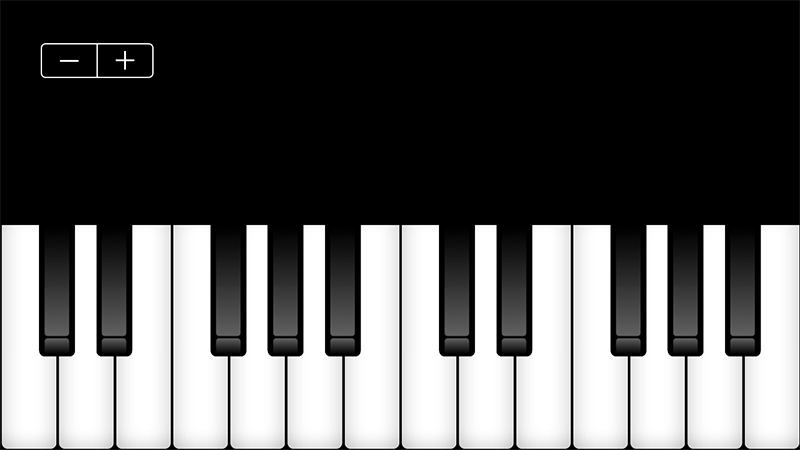
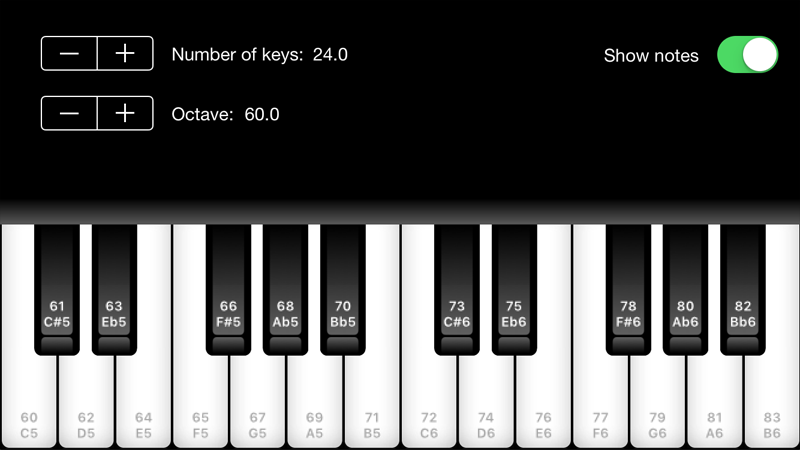
Added notes and numbers

diff --git a/Source/GLNPianoView.swift b/Source/GLNPianoView.swift
@@ -6,7 +6,6 @@
 //  Copyright © 2016 Gary Newby. All rights reserved.
 //
 
-import Foundation
 import UIKit
 import QuartzCore
 
@@ -18,49 +17,42 @@ public protocol GLNPianoViewDelegate: class  {
 @IBDesignable public class GLNPianoView : UIView {
     
     @IBInspectable var totalNumKeys:Int = 24
-    
-    static let minNumberOfKeys = 12
-    static let maxNumberOfKeys = 61
-    
-    var keyDown = NSMutableArray(capacity:maxNumberOfKeys)
-    var keyRects = NSMutableArray(capacity:maxNumberOfKeys)
-    var keyLayers = NSMutableArray(capacity:maxNumberOfKeys)
-    var currentTouches = NSMutableSet(capacity:maxNumberOfKeys)
-    var whiteDoImg:UIImage?
-    var whiteUpImg:UIImage?
-    var blackDoImg:UIImage?
-    var blackUpImg:UIImage?
-    var blackHeight:CGFloat = 0
-    var blackWidth:CGFloat = 0
-    var lastWidth:CGFloat = 0
-    var keyCornerRadius:CGFloat = 0
-    var whiteKeyCount = 0
-    
+    @IBInspectable var showNotes:Bool = true
     public weak var delegate:GLNPianoViewDelegate?
-    
+    public var octave: UInt8 = 60
+    private static let minNumberOfKeys = 12
+    private static let maxNumberOfKeys = 61
+    private var keyDown = NSMutableArray(capacity:maxNumberOfKeys)
+    private var keyRects = NSMutableArray(capacity:maxNumberOfKeys)
+    private var keyLayers = NSMutableArray(capacity:maxNumberOfKeys)
+    private var currentTouches = NSMutableSet(capacity:maxNumberOfKeys)
+    private var whiteDoImg:UIImage?
+    private var whiteUpImg:UIImage?
+    private var blackDoImg:UIImage?
+    private var blackUpImg:UIImage?
+    private var blackHeight:CGFloat = 0
+    private var blackWidth:CGFloat = 0
+    private var lastWidth:CGFloat = 0
+    private var whiteKeyCount = 0
+    var keyCornerRadius:CGFloat = 0
     
     override public init(frame: CGRect) {
         super.init(frame: frame)
-        self.commonInit()
+        commonInit()
     }
     
     required public init?(coder aDecoder: NSCoder) {
         super.init(coder: aDecoder)
-        self.commonInit()
+        commonInit()
     }
     
     override public func prepareForInterfaceBuilder() {
         totalNumKeys = clamp(totalNumKeys, min: GLNPianoView.minNumberOfKeys, max: GLNPianoView.maxNumberOfKeys)
     }
     
-    func clamp(_ value:Int, min:Int,  max:Int) -> Int {
-        let r = value < min ? min : value;
-        return r > max ? max : r;
-    }
-    
     func commonInit() {
         blackHeight = 0.585
-        blackWidth = 0.63
+        blackWidth = 0.80
         keyCornerRadius = blackWidth * 8.0
         whiteKeyCount = 0
         lastWidth = 0
@@ -90,14 +82,13 @@ public protocol GLNPianoViewDelegate: class  {
     
     override public func layoutSubviews() {
         super.layoutSubviews()
-        
         commonInit()
         
         let rect:CGRect = bounds
         let whiteKeyHeight = rect.size.height
         let whiteKeyWidth  = whiteKeyWidthForRect(rect)
-        let blackKeyHeight = rect.size.height * self.blackHeight
-        let blackKeyWidth  = whiteKeyWidth * self.blackWidth
+        let blackKeyHeight = rect.size.height * blackHeight
+        let blackKeyWidth  = whiteKeyWidth * blackWidth
         let blackKeyOffset = blackKeyWidth / 2.0
         
         blackUpImg = keyImage(CGSize(width: blackKeyWidth, height: blackKeyHeight), blackKey: true, keyDown:false)
@@ -105,9 +96,8 @@ public protocol GLNPianoViewDelegate: class  {
         whiteUpImg = keyImage(CGSize(width: 21, height: 21), blackKey: false, keyDown:false)
         whiteDoImg = keyImage(CGSize(width: 21, height: 21), blackKey: false, keyDown:true)
         
-        var x:CGFloat = 0
-        
         // White Keys
+        var x:CGFloat = 0
         for i in 0 ..< totalNumKeys {
             if (isWhiteKey(i)) {
                 let newX = (x + 0.5)
@@ -116,14 +106,16 @@ public protocol GLNPianoViewDelegate: class  {
                 let keyLayer = createCALayer(UIColor.white, aRect:keyRect, white:true)
                 keyLayers[i] = keyLayer;
                 layer.addSublayer(keyLayer)
+                if (showNotes) {
+                    layer.addSublayer(noteLayer(midiNumber: i + Int(octave), keyRect: keyRect, textColour: UIColor.lightGray))
+                }
                 x += whiteKeyWidth
             }
         }
         
-        x = 0.0
-        
         // Black Keys
-        for i in 0 ..< self.totalNumKeys {
+        x = 0.0
+        for i in 0 ..< totalNumKeys {
             if (isWhiteKey(i)) {
                 x += whiteKeyWidth
             } else {
@@ -131,6 +123,9 @@ public protocol GLNPianoViewDelegate: class  {
                 let keyLayer = createCALayer(UIColor.black, aRect:keyRect, white:false)
                 keyLayers[i] = keyLayer;
                 layer.addSublayer(keyLayer)
+                if (showNotes) {
+                    layer.addSublayer(noteLayer(midiNumber: i + Int(octave), keyRect: keyRect, textColour: UIColor.white))
+                }
             }
         }
     }
@@ -145,14 +140,10 @@ public protocol GLNPianoViewDelegate: class  {
     }
     
     func createCALayer(_ color:UIColor, aRect:CGRect, white:Bool) -> CALayer {
-        let rect = CGRect(x: aRect.minX, y: aRect.minY - (self.keyCornerRadius*2.0), width: aRect.width, height: aRect.height + (self.keyCornerRadius*2.0))
+        let rect = CGRect(x: aRect.minX, y: aRect.minY - (keyCornerRadius*2.0), width: aRect.width, height: aRect.height + (keyCornerRadius*2.0))
         let layer  = CALayer()
-        
-        if let blackUp = blackUpImg?.cgImage,
-            let whiteUp = whiteUpImg?.cgImage
-        {
+        if let blackUp = blackUpImg?.cgImage, let whiteUp = whiteUpImg?.cgImage {
             var x:CGFloat = 0.0
-            
             layer.contentsCenter = CGRect(x: 0.5, y: 0.5, width: 0.02, height: 0.02)
             if (white) {
                 x = 1.0
@@ -161,10 +152,10 @@ public protocol GLNPianoViewDelegate: class  {
             layer.frame = rect.insetBy(dx: x, dy: 0)
             layer.isOpaque = true
             layer.backgroundColor = color.cgColor
-            layer.cornerRadius = self.keyCornerRadius
+            layer.cornerRadius = keyCornerRadius
             
             // Disable implict animations for specified keys
-            layer.actions = ["onOrderIn":NSNull(), "onOrderOut":NSNull(), "self.sublayers":NSNull(), "contents":NSNull(), "bounds":NSNull(), "position":NSNull()]
+            layer.actions = ["onOrderIn":NSNull(), "onOrderOut":NSNull(), "sublayers":NSNull(), "contents":NSNull(), "bounds":NSNull(), "position":NSNull()]
             if (!white) {
                 // Black
                 layer.contents       = blackUp
@@ -201,21 +192,14 @@ public protocol GLNPianoViewDelegate: class  {
         }
     }
     
-    func isWhiteKey(_ key:Int) -> Bool {
-        let k = key % 12
-        return (k == 0 || k == 2 || k == 4 || k == 5 || k == 7 || k == 9 || k == 11)
-    }
-    
-    //Mark - Update
-    
     func updateKeyRects() {
         if (lastWidth == bounds.size.width) {
             return
         }
         lastWidth = bounds.size.width
         
-        let rect           = self.frame
-        let whiteKeyHeight = self.bounds.size.height
+        let rect           = frame
+        let whiteKeyHeight = bounds.size.height
         let blackKeyHeight = whiteKeyHeight * blackHeight
         let whiteKeyWidth  = whiteKeyWidthForRect(rect)
         let blackKeyWidth  = whiteKeyWidth * blackWidth
@@ -239,7 +223,6 @@ public protocol GLNPianoViewDelegate: class  {
         let touches = currentTouches.allObjects as NSArray
         let count = touches.count
         let currentKeyState = NSMutableArray()
-        
         for i in 0 ..< totalNumKeys {
             currentKeyState[i] = NSNumber(value: false as Bool)
         }
@@ -285,8 +268,6 @@ public protocol GLNPianoViewDelegate: class  {
         return keyNum
     }
     
-    //Mark - Touch Handling Code
-    
     override public func touchesBegan(_ touches: Set<UITouch>, with event: UIEvent?) {
         for touch in touches {
             currentTouches.add(touch)
@@ -305,79 +286,14 @@ public protocol GLNPianoViewDelegate: class  {
         updateKeyStates()
     }
     
-    //MARK: - Image generation
+    func toggleShowNotes() {
+        showNotes = !showNotes
+        setNeedsLayout()
+    }
     
-    func keyImage(_ aSize:CGSize, blackKey:Bool, keyDown:(Bool)) -> UIImage {
-        let scale = UIScreen.main.scale
-        var size:CGSize = aSize
-        size.width *= scale
-        size.height *= scale
-        UIGraphicsBeginImageContext(size)
-        
-        if let context = UIGraphicsGetCurrentContext() {
-            let colorSpace = CGColorSpaceCreateDeviceRGB()
-            
-            if (blackKey) {
-                let fillColor = UIColor(red: 0.379, green: 0.379, blue: 0.379, alpha: 1)
-                let strokeColor = UIColor(red: 0, green: 0, blue: 0, alpha: 0.951)
-                let gradient1Colors = [strokeColor.cgColor, fillColor.cgColor]
-                let gradient1Locations:[CGFloat] = [0.11, 1.0]
-                
-                if let gradient1 = CGGradient(colorsSpace: colorSpace, colors: gradient1Colors as CFArray, locations: gradient1Locations) {
-                    let frame = CGRect(x: 0, y: 0, width: size.width, height: size.height)
-                    let rectanglePath = UIBezierPath(rect:CGRect(x: frame.minX, y: frame.minY, width: size.width, height: size.height))
-                    strokeColor.setFill()
-                    rectanglePath.fill()
-                    
-                    let border = size.width*0.15
-                    let width = size.width*0.7
-                    var topRectHeight = size.height*0.86
-                    var bottomRectOffset = size.height*0.875
-                    let bottomRectHeight = size.height*0.125
-                    if (keyDown) {
-                        topRectHeight = size.height*0.91
-                        bottomRectOffset = size.height*0.925
-                    }
-                    
-                    let roundedRectangleRect = CGRect(x: frame.minX +  border, y: frame.minY, width: width, height: topRectHeight)
-                    let roundedRectanglePath = UIBezierPath(roundedRect:roundedRectangleRect, cornerRadius: self.keyCornerRadius)
-                    context.saveGState()
-                    roundedRectanglePath.addClip()
-                    context.drawLinearGradient(gradient1, start: CGPoint(x: roundedRectangleRect.midX, y: roundedRectangleRect.minY), end: CGPoint(x: roundedRectangleRect.midX, y: roundedRectangleRect.maxY), options: [])
-                    context.restoreGState()
-                    
-                    let roundedRectangle2Rect = CGRect(x: frame.minX +  border, y: frame.minY + bottomRectOffset, width: width, height: bottomRectHeight)
-                    let roundedRectangle2Path = UIBezierPath(roundedRect: roundedRectangle2Rect, cornerRadius: self.keyCornerRadius)
-                    context.saveGState()
-                    roundedRectangle2Path.addClip()
-                    context.drawLinearGradient(gradient1, start: CGPoint(x: roundedRectangle2Rect.midX, y: roundedRectangle2Rect.maxY), end: CGPoint(x: roundedRectangle2Rect.midX, y: roundedRectangle2Rect.minY), options: [])
-                }
-                
-            } else {
-                var fillColor = UIColor(red:0.1, green: 0.1, blue: 0.1, alpha: 0.20)
-                var strokeColor = UIColor(red: 0.9, green: 0.9, blue: 0.9, alpha: 0.0)
-                
-                if (keyDown) {
-                    fillColor = UIColor(red: 0.1, green: 0.1, blue: 0.1, alpha: 0.50)
-                    strokeColor = UIColor(red: 0.9, green: 0.9, blue: 0.9, alpha: 0.0)
-                }
-                
-                let gradient1Colors = [strokeColor.cgColor, fillColor.cgColor]
-                let gradient1Locations:[CGFloat] = [0.1, 1.0]
-                if let gradient1 = CGGradient(colorsSpace: colorSpace, colors: gradient1Colors as CFArray, locations: gradient1Locations) {
-                    let rectanglePath = UIBezierPath(rect:CGRect(x: 0, y: 0, width: size.width, height: size.height))
-                    context.saveGState()
-                    rectanglePath.addClip()
-                    context.drawRadialGradient(gradient1, startCenter: CGPoint(x: size.width/2.0, y: size.height/2.0), startRadius: size.height * 0.01, endCenter: CGPoint(x: size.width/2.0, y: size.height/2.0), endRadius: size.height * 0.6, options: [.drawsBeforeStartLocation, .drawsAfterEndLocation])
-                }
-            }
-            context.restoreGState()
-        }
-        
-        if let image = UIGraphicsGetImageFromCurrentImageContext() {
-            return image
-        }
-        return UIImage()
+    func setOctave(_ value: Int) {
+        octave = UInt8(value)
+        setNeedsLayout()
     }
     
 }

diff --git a/Example/Example/ViewController.swift b/Example/Example/ViewController.swift
@@ -11,24 +11,30 @@ import AVFoundation
 
 
 class ViewController: UIViewController, GLNPianoViewDelegate {
-
+    
+    @IBOutlet weak var fasciaView: UIView!
     @IBOutlet weak var keyboardView: GLNPianoView!
     @IBOutlet weak var keyStepper: UIStepper!
     @IBOutlet weak var keyNumberLabel: UILabel!
     @IBOutlet weak var octaveStepper: UIStepper!
     @IBOutlet weak var octaveLabel: UILabel!
-    var octave: UInt8 = 60
-    let audioEngine = AudioEngine()
+    private let audioEngine = AudioEngine()
     
     
     override func viewDidLoad() {
         super.viewDidLoad()
         
+        let layer = CAGradientLayer()
+        layer.frame = fasciaView.bounds
+        layer.colors = [UIColor.black.cgColor, UIColor.darkGray.cgColor, UIColor.black.cgColor,]
+        layer.startPoint = CGPoint(x: 0.0, y: 0.80)
+        layer.endPoint = CGPoint(x: 0.0, y: 1.0)
+        fasciaView.layer.insertSublayer(layer, at: 0)
+        
         keyboardView.delegate = self;
         keyStepper.value = Double(keyboardView.totalNumKeys)
         keyNumberLabel.text = String(keyStepper.value)
         octaveLabel.text = String(octaveStepper.value)
-        
         audioEngine.start()
     }
 
@@ -37,11 +43,15 @@ class ViewController: UIViewController, GLNPianoViewDelegate {
     }
     
     func pianoKeyDown(_ keyNumber: UInt8) {
-        audioEngine.sampler.startNote(UInt8(octave + keyNumber), withVelocity: 64, onChannel: 0)
+        audioEngine.sampler.startNote((keyboardView.octave + keyNumber), withVelocity: 64, onChannel: 0)
     }
     
     func pianoKeyUp(_ keyNumber: UInt8) {
-        audioEngine.sampler.stopNote(UInt8(octave + keyNumber), onChannel: 0)
+        audioEngine.sampler.stopNote((keyboardView.octave + keyNumber), onChannel: 0)
+    }
+    
+    @IBAction func showNotes(_ sender: Any) {
+        keyboardView.toggleShowNotes()
     }
     
     @IBAction func keyStepperTapped(_ sender: UIStepper) {
@@ -50,8 +60,8 @@ class ViewController: UIViewController, GLNPianoViewDelegate {
     }
     
     @IBAction func octaveStepperTapped(_ sender: UIStepper) {
-        octave = UInt8(sender.value)
-        octaveLabel.text = String(octave)
+        keyboardView.setOctave(Int(sender.value))
+        octaveLabel.text = String(keyboardView.octave)
     }
     
 }
